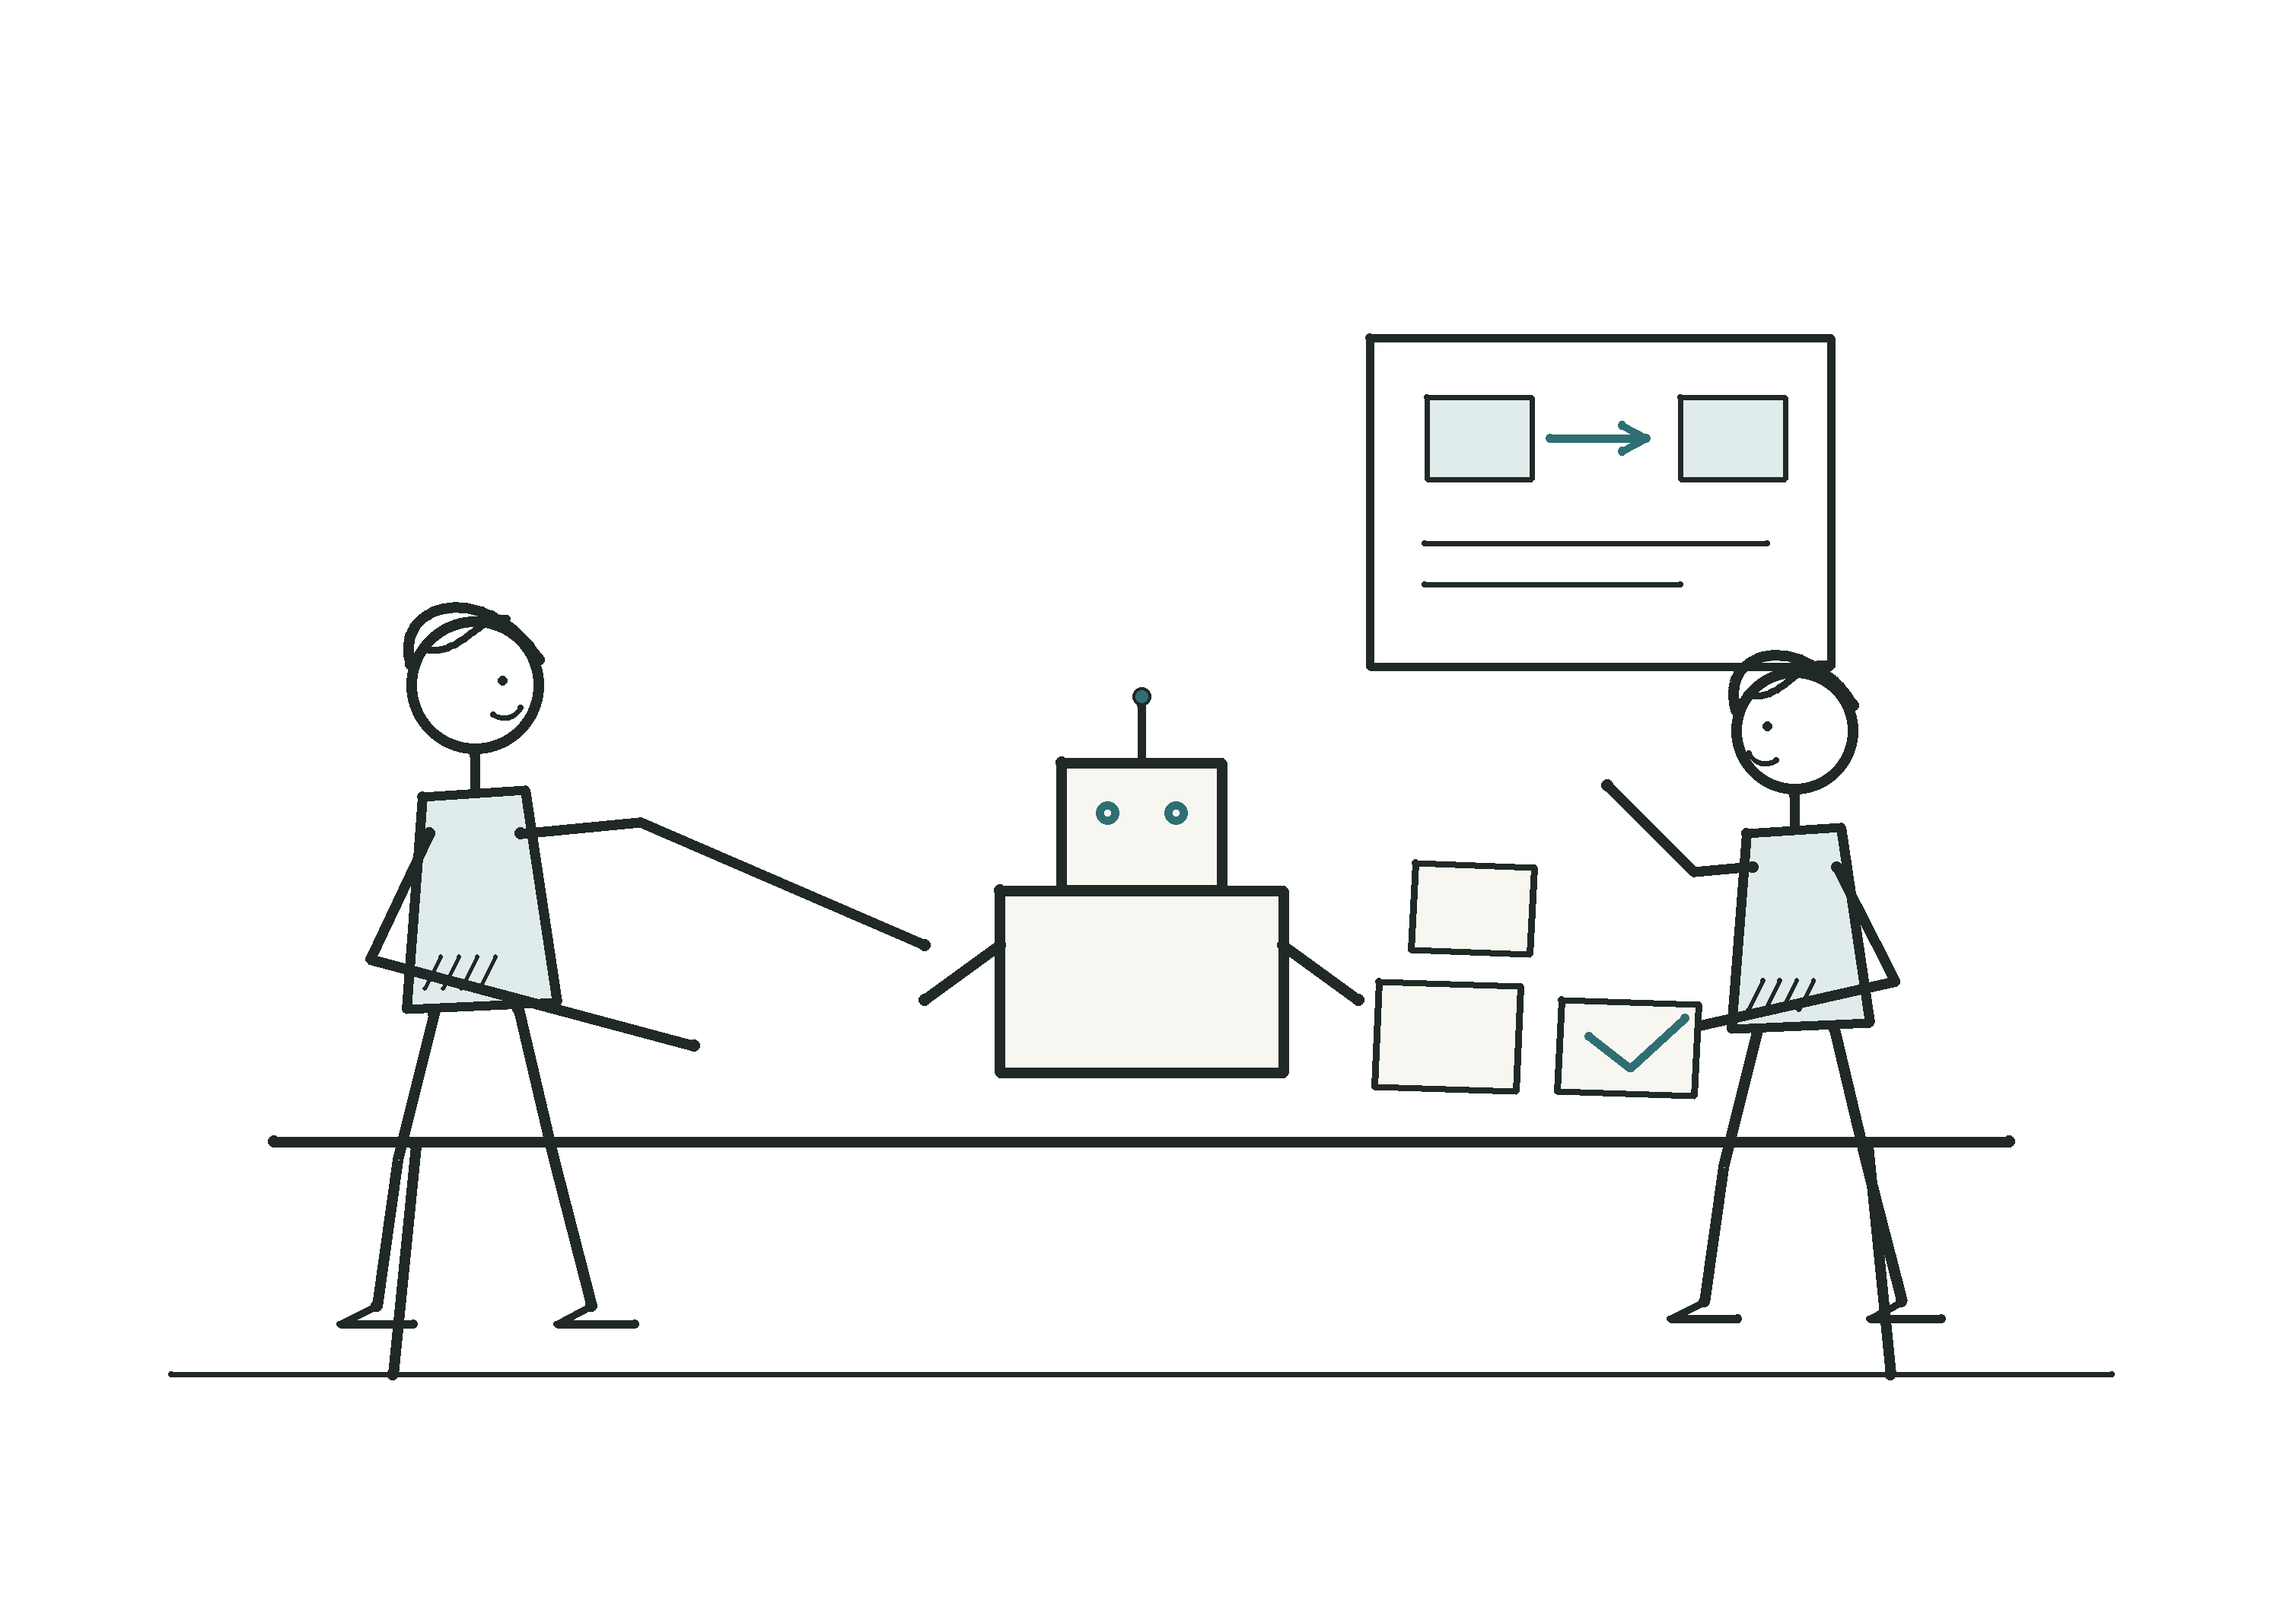
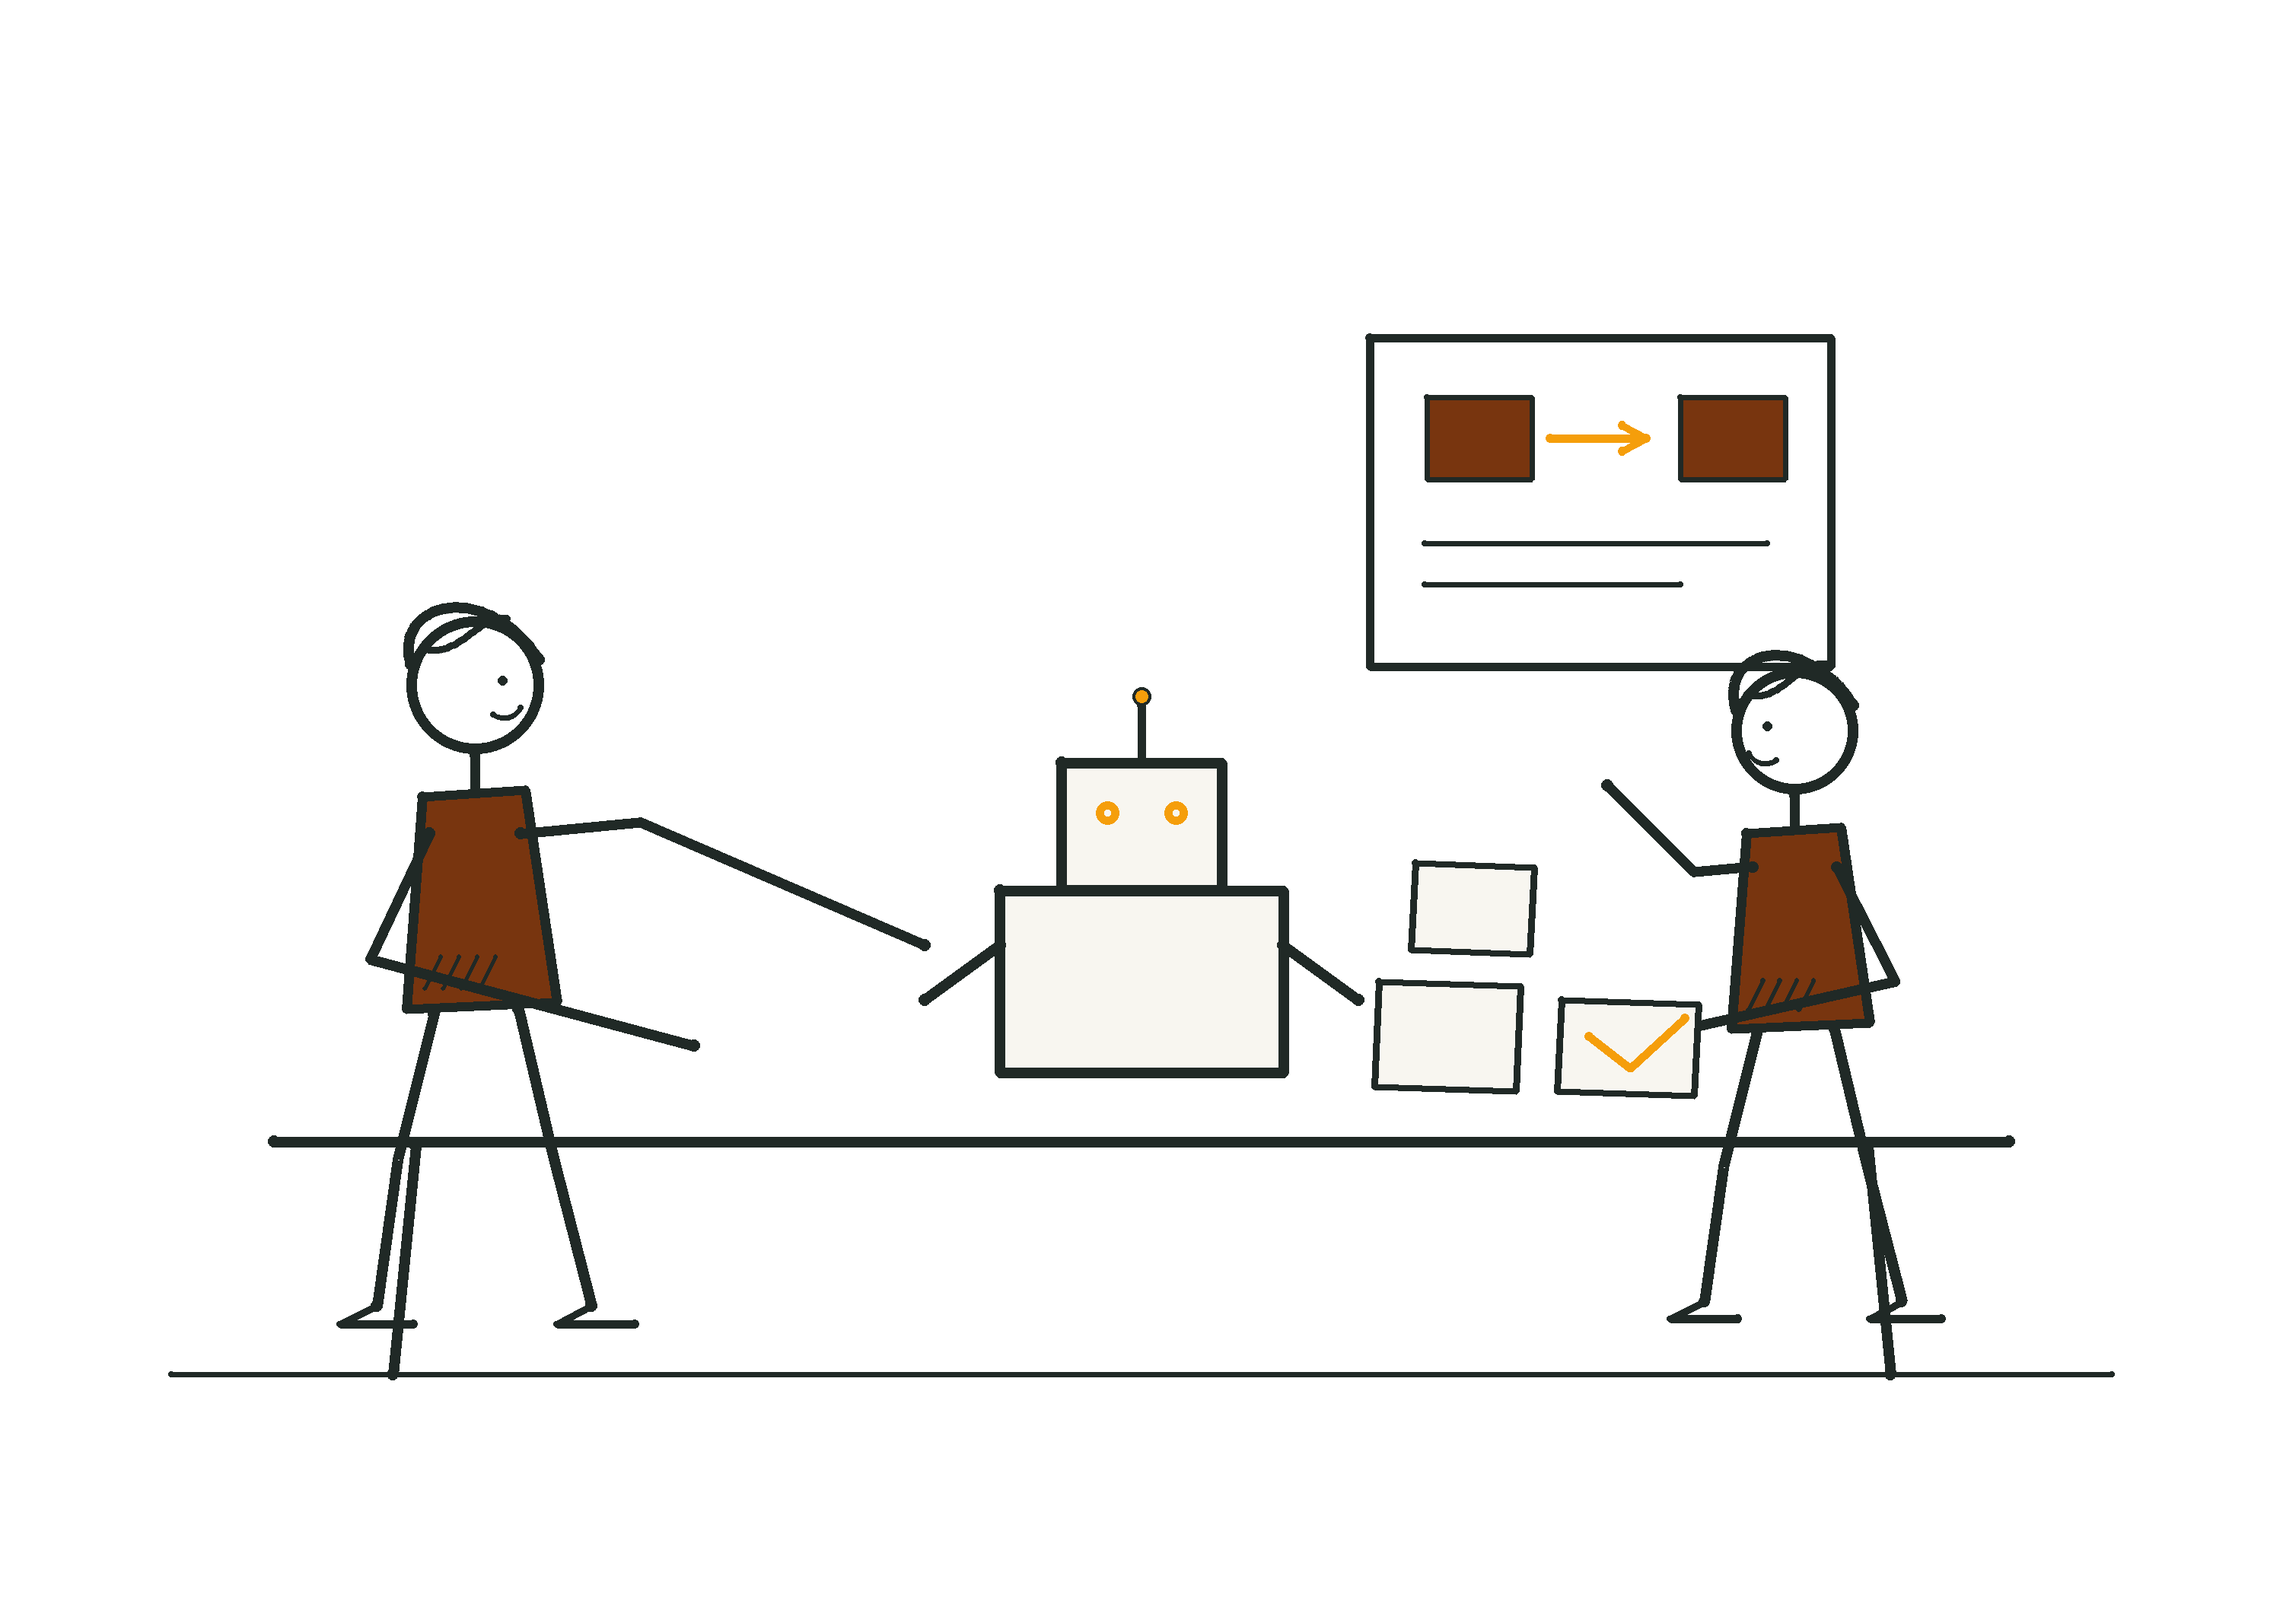
Regenerate cover with track palette

diff --git a/chatbot.html b/chatbot.html
@@ -1,0 +1,5 @@
+<script
+  data-embed-id="7d4b5040-149d-4cd4-8ccc-e466428a9e95"
+  data-base-api-url="https://chat.eduserver.au/api/embed"
+  src="https://chat.eduserver.au/embed/anythingllm-chat-widget.min.js">
+</script>
